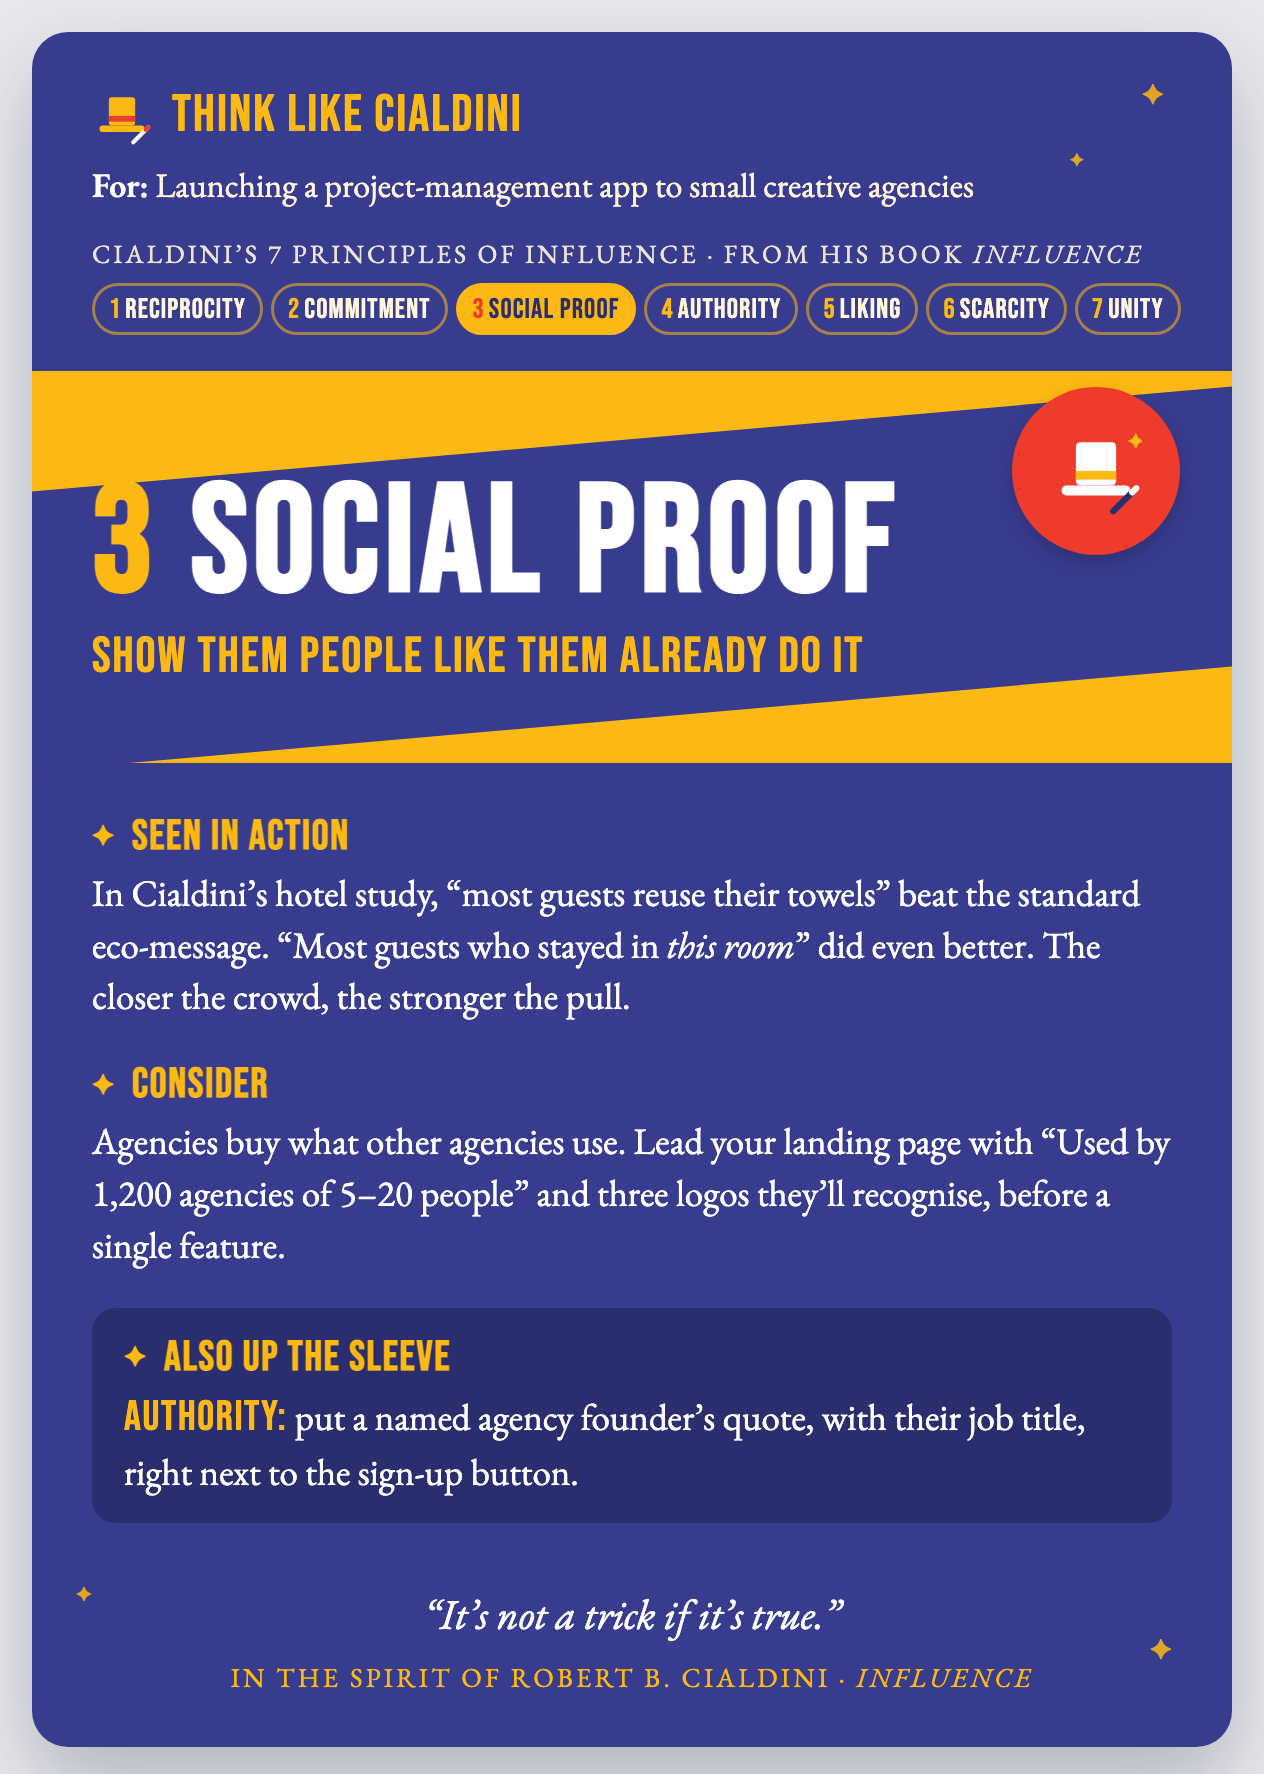
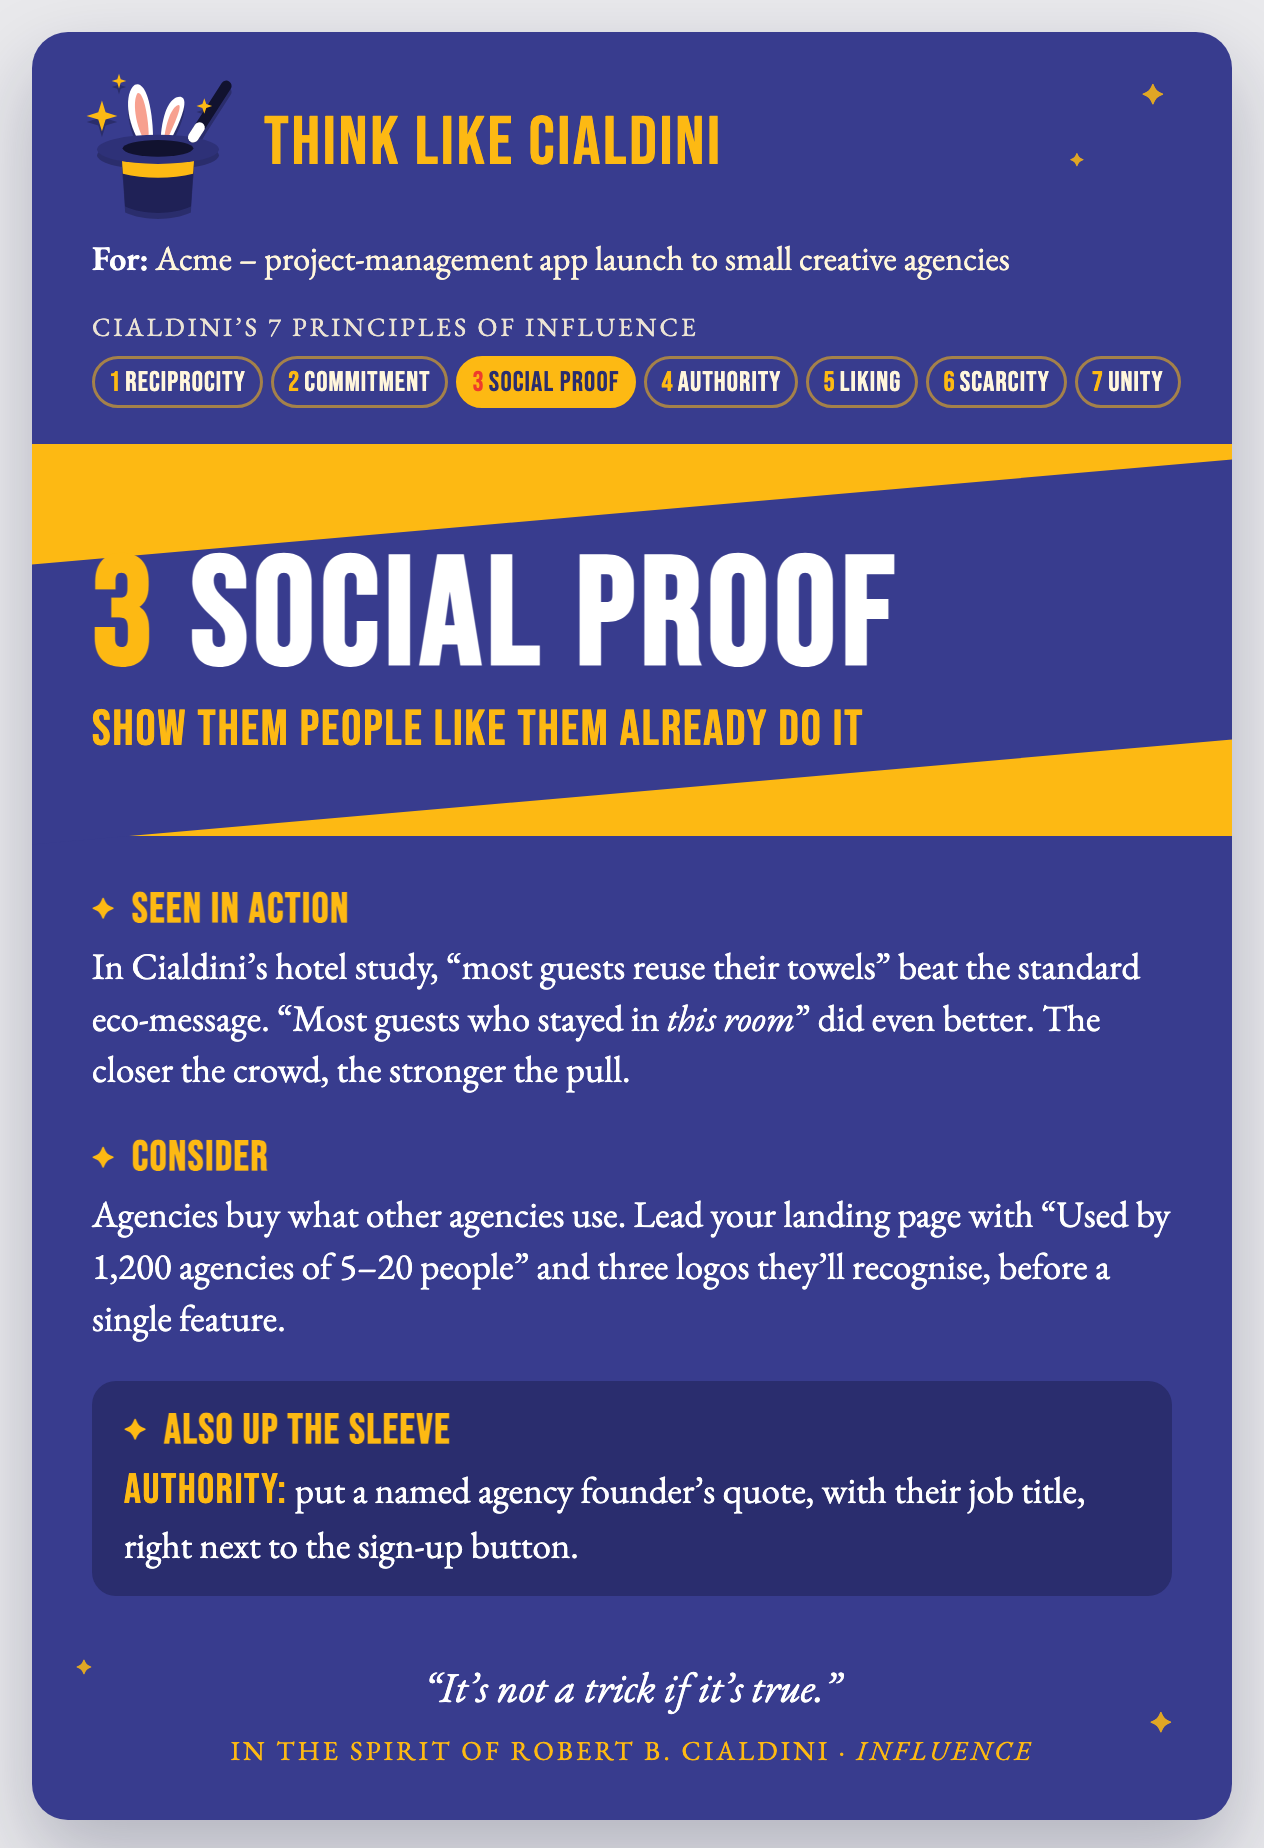
New magician's hat, cleaner card header, "Company – project" line
- Original flat hat, rabbit and wand icon (assets/magic-hat.svg), shown
  bigger in the card header and the how-to image.
- Removed the red badge next to the principle name.
- "For:" line now uses "Company – project"; strip label shortened to
  "Cialdini's 7 principles of influence".

diff --git a/docs/example-card.html b/docs/example-card.html
@@ -37,8 +37,8 @@
   .spark { position: absolute; color: var(--yellow); opacity: .85; font-size: 14px; pointer-events: none; }
 
   .top { padding: 26px 30px 18px; position: relative; }
-  .eyebrow { display: flex; align-items: center; gap: 10px; color: var(--yellow); font-size: 26px; }
-  .eyebrow svg { width: 30px; height: 30px; flex: none; }
+  .eyebrow { display: flex; align-items: center; gap: 14px; color: var(--yellow); font-size: 34px; line-height: 1; }
+  .eyebrow svg { width: 78px; height: 78px; flex: none; margin: -10px 0 -8px -6px; filter: drop-shadow(0 3px 0 rgba(17,18,47,.35)); }
   /* the 7 principles strip: the chosen one lights up (set data-active on .card) */
   .seven { margin-top: 14px; }
   .seven-label { font-size: 13px; letter-spacing: .12em; text-transform: uppercase; color: var(--cream); opacity: .9; }
@@ -54,7 +54,7 @@
   .card[data-active="3"] .chip:nth-child(3) b, .card[data-active="4"] .chip:nth-child(4) b,
   .card[data-active="5"] .chip:nth-child(5) b, .card[data-active="6"] .chip:nth-child(6) b,
   .card[data-active="7"] .chip:nth-child(7) b { color: var(--red); }
-  .brief { margin-top: 8px; font-size: 17px; line-height: 1.35; color: var(--cream); }
+  .brief { margin-top: 16px; font-size: 17px; line-height: 1.35; color: var(--cream); }
   .brief b { font-weight: 600; color: var(--white); }
 
   .band { position: relative; background: var(--yellow); padding: 34px 0 22px; }
@@ -68,15 +68,6 @@
   .principle { font-size: 76px; line-height: .92; color: var(--white); display: flex; align-items: baseline; gap: 16px; }
   .principle .num { color: var(--yellow); }
   .lever { font-size: 25px; color: var(--yellow); margin-top: 6px; }
-  .badge {
-    position: absolute; top: 8px; right: 26px; z-index: 2;
-    width: 84px; height: 84px; border-radius: 50%;
-    background: var(--red); color: var(--white);
-    display: flex; flex-direction: column; align-items: center; justify-content: center;
-    box-shadow: 0 4px 10px rgba(0,0,0,.18);
-  }
-  .badge small { font-size: 15px; line-height: 1; }
-  .badge strong { font-size: 40px; line-height: .9; }
 
   .body { padding: 24px 30px 8px; }
   .section { margin-bottom: 18px; }
@@ -102,18 +93,26 @@
   <header class="top">
     <div class="eyebrow display">
       <!-- top hat and wand -->
-      <svg viewBox="0 0 32 32" aria-hidden="true">
-        <rect x="9" y="6" width="14" height="15" rx="1.5" fill="#FDB913"/>
-        <rect x="9" y="16" width="14" height="3" fill="#EE3B2B"/>
-        <rect x="4" y="21" width="24" height="3.5" rx="1.75" fill="#FDB913"/>
-        <line x1="22" y1="30" x2="30" y2="22" stroke="#FFFFFF" stroke-width="2.2" stroke-linecap="round"/>
-        <line x1="28.6" y1="23.4" x2="30" y2="22" stroke="#EE3B2B" stroke-width="2.2" stroke-linecap="round"/>
-      </svg>
+      <svg width="62" height="62" viewBox="0 0 64 64" aria-hidden="true">
+  <path d="M25 33 C19 24 18 12 22.5 8.5 C27 6.5 30 18 30 32 Z" fill="#FFFFFF"/>
+  <path d="M25.4 29.5 C22.2 22.5 21.8 14.5 23.6 12 C25.6 11.2 27.8 19 28.2 29 Z" fill="#F7A08F"/>
+  <path d="M33 32 C33.5 21 36.5 13 41.5 13.5 C45 14.5 41 24 36.5 32.5 Z" fill="#FFFFFF"/>
+  <path d="M34.6 30 C35.5 23 38 17 40.6 16.8 C41.8 17.6 39 24 36 30.5 Z" fill="#F7A08F"/>
+  <path d="M17 36 L18.5 58.5 C26 62 38 62 45.5 58.5 L47 36 Z" fill="#1F2156"/>
+  <path d="M17.2 39.5 L46.8 39.5 L46.4 45 C38 47.2 26 47.2 17.6 45 Z" fill="#FDB913"/>
+  <ellipse cx="32" cy="35" rx="25" ry="6" fill="#2E3178"/>
+  <ellipse cx="32" cy="34.6" rx="14.5" ry="3.4" fill="#11122F"/>
+  <line x1="46.5" y1="30" x2="60" y2="9" stroke="#11122F" stroke-width="4.4" stroke-linecap="round"/>
+  <line x1="46.5" y1="30" x2="49" y2="26.1" stroke="#FFFFFF" stroke-width="4.4" stroke-linecap="round"/>
+  <path d="M9 15 L10.5 19.8 L15.3 21.3 L10.5 22.8 L9 27.6 L7.5 22.8 L2.7 21.3 L7.5 19.8 Z" fill="#FDB913"/>
+  <path d="M51 14 L51.8 16.4 L54.2 17.2 L51.8 18 L51 20.4 L50.2 18 L47.8 17.2 L50.2 16.4 Z" fill="#FDB913"/>
+  <path d="M16 4 L16.7 6.3 L19 7 L16.7 7.7 L16 10 L15.3 7.7 L13 7 L15.3 6.3 Z" fill="#FDB913"/>
+</svg>
       Think like Cialdini
     </div>
-    <p class="brief"><b>For:</b> Launching a project-management app to small creative agencies</p>
+    <p class="brief"><b>For:</b> Acme – project-management app launch to small creative agencies</p>
     <div class="seven">
-      <p class="seven-label">Cialdini’s 7 principles of influence · from his book <i>Influence</i></p>
+      <p class="seven-label">Cialdini’s 7 principles of influence</p>
       <div class="chips">
         <span class="chip"><b>1</b>Reciprocity</span>
         <span class="chip"><b>2</b>Commitment</span>
@@ -127,16 +126,6 @@
   </header>
 
   <section class="band">
-    <div class="badge" aria-hidden="true">
-      <svg viewBox="0 0 32 32" width="46" height="46">
-        <rect x="9" y="6" width="14" height="15" rx="1.5" fill="#FFFFFF"/>
-        <rect x="9" y="16" width="14" height="3" fill="#FDB913"/>
-        <rect x="4" y="21" width="24" height="3.5" rx="1.75" fill="#FFFFFF"/>
-        <line x1="22" y1="30" x2="30" y2="22" stroke="#2A2D6E" stroke-width="2.2" stroke-linecap="round"/>
-        <line x1="28.6" y1="23.4" x2="30" y2="22" stroke="#FFFFFF" stroke-width="2.2" stroke-linecap="round"/>
-        <text x="27" y="8" font-size="7" fill="#FDB913">✦</text>
-      </svg>
-    </div>
     <div class="stripe"><div class="stripe-inner">
       <h1 class="principle display"><span class="num">3</span><span>Social proof</span></h1>
       <p class="lever display">Show them people like them already do it</p>

diff --git a/cialdini-7-principles/assets/card-template.html b/cialdini-7-principles/assets/card-template.html
@@ -44,8 +44,8 @@
   .spark { position: absolute; color: var(--yellow); opacity: .85; font-size: 14px; pointer-events: none; }
 
   .top { padding: 26px 30px 18px; position: relative; }
-  .eyebrow { display: flex; align-items: center; gap: 10px; color: var(--yellow); font-size: 26px; }
-  .eyebrow svg { width: 30px; height: 30px; flex: none; }
+  .eyebrow { display: flex; align-items: center; gap: 14px; color: var(--yellow); font-size: 34px; line-height: 1; }
+  .eyebrow svg { width: 78px; height: 78px; flex: none; margin: -10px 0 -8px -6px; filter: drop-shadow(0 3px 0 rgba(17,18,47,.35)); }
   /* the 7 principles strip: the chosen one lights up (set data-active on .card) */
   .seven { margin-top: 14px; }
   .seven-label { font-size: 13px; letter-spacing: .12em; text-transform: uppercase; color: var(--cream); opacity: .9; }
@@ -61,7 +61,7 @@
   .card[data-active="3"] .chip:nth-child(3) b, .card[data-active="4"] .chip:nth-child(4) b,
   .card[data-active="5"] .chip:nth-child(5) b, .card[data-active="6"] .chip:nth-child(6) b,
   .card[data-active="7"] .chip:nth-child(7) b { color: var(--red); }
-  .brief { margin-top: 8px; font-size: 17px; line-height: 1.35; color: var(--cream); }
+  .brief { margin-top: 16px; font-size: 17px; line-height: 1.35; color: var(--cream); }
   .brief b { font-weight: 600; color: var(--white); }
 
   .band { position: relative; background: var(--yellow); padding: 34px 0 22px; }
@@ -75,15 +75,6 @@
   .principle { font-size: 76px; line-height: .92; color: var(--white); display: flex; align-items: baseline; gap: 16px; }
   .principle .num { color: var(--yellow); }
   .lever { font-size: 25px; color: var(--yellow); margin-top: 6px; }
-  .badge {
-    position: absolute; top: 8px; right: 26px; z-index: 2;
-    width: 84px; height: 84px; border-radius: 50%;
-    background: var(--red); color: var(--white);
-    display: flex; flex-direction: column; align-items: center; justify-content: center;
-    box-shadow: 0 4px 10px rgba(0,0,0,.18);
-  }
-  .badge small { font-size: 15px; line-height: 1; }
-  .badge strong { font-size: 40px; line-height: .9; }
 
   .body { padding: 24px 30px 8px; }
   .section { margin-bottom: 18px; }
@@ -109,18 +100,26 @@
   <header class="top">
     <div class="eyebrow display">
       <!-- top hat and wand -->
-      <svg viewBox="0 0 32 32" aria-hidden="true">
-        <rect x="9" y="6" width="14" height="15" rx="1.5" fill="#FDB913"/>
-        <rect x="9" y="16" width="14" height="3" fill="#EE3B2B"/>
-        <rect x="4" y="21" width="24" height="3.5" rx="1.75" fill="#FDB913"/>
-        <line x1="22" y1="30" x2="30" y2="22" stroke="#FFFFFF" stroke-width="2.2" stroke-linecap="round"/>
-        <line x1="28.6" y1="23.4" x2="30" y2="22" stroke="#EE3B2B" stroke-width="2.2" stroke-linecap="round"/>
-      </svg>
+      <svg width="62" height="62" viewBox="0 0 64 64" aria-hidden="true">
+  <path d="M25 33 C19 24 18 12 22.5 8.5 C27 6.5 30 18 30 32 Z" fill="#FFFFFF"/>
+  <path d="M25.4 29.5 C22.2 22.5 21.8 14.5 23.6 12 C25.6 11.2 27.8 19 28.2 29 Z" fill="#F7A08F"/>
+  <path d="M33 32 C33.5 21 36.5 13 41.5 13.5 C45 14.5 41 24 36.5 32.5 Z" fill="#FFFFFF"/>
+  <path d="M34.6 30 C35.5 23 38 17 40.6 16.8 C41.8 17.6 39 24 36 30.5 Z" fill="#F7A08F"/>
+  <path d="M17 36 L18.5 58.5 C26 62 38 62 45.5 58.5 L47 36 Z" fill="#1F2156"/>
+  <path d="M17.2 39.5 L46.8 39.5 L46.4 45 C38 47.2 26 47.2 17.6 45 Z" fill="#FDB913"/>
+  <ellipse cx="32" cy="35" rx="25" ry="6" fill="#2E3178"/>
+  <ellipse cx="32" cy="34.6" rx="14.5" ry="3.4" fill="#11122F"/>
+  <line x1="46.5" y1="30" x2="60" y2="9" stroke="#11122F" stroke-width="4.4" stroke-linecap="round"/>
+  <line x1="46.5" y1="30" x2="49" y2="26.1" stroke="#FFFFFF" stroke-width="4.4" stroke-linecap="round"/>
+  <path d="M9 15 L10.5 19.8 L15.3 21.3 L10.5 22.8 L9 27.6 L7.5 22.8 L2.7 21.3 L7.5 19.8 Z" fill="#FDB913"/>
+  <path d="M51 14 L51.8 16.4 L54.2 17.2 L51.8 18 L51 20.4 L50.2 18 L47.8 17.2 L50.2 16.4 Z" fill="#FDB913"/>
+  <path d="M16 4 L16.7 6.3 L19 7 L16.7 7.7 L16 10 L15.3 7.7 L13 7 L15.3 6.3 Z" fill="#FDB913"/>
+</svg>
       Think like Cialdini
     </div>
     <p class="brief"><b>For:</b> {{CONTEXT}}</p>
     <div class="seven">
-      <p class="seven-label">Cialdini’s 7 principles of influence · from his book <i>Influence</i></p>
+      <p class="seven-label">Cialdini’s 7 principles of influence</p>
       <div class="chips">
         <span class="chip"><b>1</b>Reciprocity</span>
         <span class="chip"><b>2</b>Commitment</span>
@@ -134,16 +133,6 @@
   </header>
 
   <section class="band">
-    <div class="badge" aria-hidden="true">
-      <svg viewBox="0 0 32 32" width="46" height="46">
-        <rect x="9" y="6" width="14" height="15" rx="1.5" fill="#FFFFFF"/>
-        <rect x="9" y="16" width="14" height="3" fill="#FDB913"/>
-        <rect x="4" y="21" width="24" height="3.5" rx="1.75" fill="#FFFFFF"/>
-        <line x1="22" y1="30" x2="30" y2="22" stroke="#2A2D6E" stroke-width="2.2" stroke-linecap="round"/>
-        <line x1="28.6" y1="23.4" x2="30" y2="22" stroke="#FFFFFF" stroke-width="2.2" stroke-linecap="round"/>
-        <text x="27" y="8" font-size="7" fill="#FDB913">✦</text>
-      </svg>
-    </div>
     <div class="stripe"><div class="stripe-inner">
       <h1 class="principle display"><span class="num">{{NUMBER}}</span><span>{{PRINCIPLE}}</span></h1>
       <p class="lever display">{{LEVER}}</p>

diff --git a/docs/how-to-use.html b/docs/how-to-use.html
@@ -15,7 +15,7 @@
   .band { position:absolute; left:-40px; right:-40px; top:178px; height:290px; background:var(--yellow); transform:skewY(-4deg); }
   .spark { position:absolute; color:var(--yellow); font-size:16px; }
   header { position:relative; display:flex; align-items:center; gap:14px; }
-  header svg { width:46px; height:46px; }
+  header svg { width:58px; height:58px; }
   h1 { font-size:58px; line-height:1; }
   h1 span { color:var(--yellow); }
   .sub { position:relative; margin:6px 0 30px 60px; font-size:21px; color:var(--cream); }
@@ -45,13 +45,21 @@
   <span class="spark" style="bottom:40px;left:30px;font-size:11px">✦</span>
 
   <header>
-    <svg viewBox="0 0 32 32" aria-hidden="true">
-      <rect x="9" y="6" width="14" height="15" rx="1.5" fill="#FDB913"/>
-      <rect x="9" y="16" width="14" height="3" fill="#EE3B2B"/>
-      <rect x="4" y="21" width="24" height="3.5" rx="1.75" fill="#FDB913"/>
-      <line x1="22" y1="30" x2="30" y2="22" stroke="#FFFFFF" stroke-width="2.2" stroke-linecap="round"/>
-      <line x1="28.6" y1="23.4" x2="30" y2="22" stroke="#EE3B2B" stroke-width="2.2" stroke-linecap="round"/>
-    </svg>
+    <svg width="62" height="62" viewBox="0 0 64 64" aria-hidden="true">
+  <path d="M25 33 C19 24 18 12 22.5 8.5 C27 6.5 30 18 30 32 Z" fill="#FFFFFF"/>
+  <path d="M25.4 29.5 C22.2 22.5 21.8 14.5 23.6 12 C25.6 11.2 27.8 19 28.2 29 Z" fill="#F7A08F"/>
+  <path d="M33 32 C33.5 21 36.5 13 41.5 13.5 C45 14.5 41 24 36.5 32.5 Z" fill="#FFFFFF"/>
+  <path d="M34.6 30 C35.5 23 38 17 40.6 16.8 C41.8 17.6 39 24 36 30.5 Z" fill="#F7A08F"/>
+  <path d="M17 36 L18.5 58.5 C26 62 38 62 45.5 58.5 L47 36 Z" fill="#1F2156"/>
+  <path d="M17.2 39.5 L46.8 39.5 L46.4 45 C38 47.2 26 47.2 17.6 45 Z" fill="#FDB913"/>
+  <ellipse cx="32" cy="35" rx="25" ry="6" fill="#2E3178"/>
+  <ellipse cx="32" cy="34.6" rx="14.5" ry="3.4" fill="#11122F"/>
+  <line x1="46.5" y1="30" x2="60" y2="9" stroke="#11122F" stroke-width="4.4" stroke-linecap="round"/>
+  <line x1="46.5" y1="30" x2="49" y2="26.1" stroke="#FFFFFF" stroke-width="4.4" stroke-linecap="round"/>
+  <path d="M9 15 L10.5 19.8 L15.3 21.3 L10.5 22.8 L9 27.6 L7.5 22.8 L2.7 21.3 L7.5 19.8 Z" fill="#FDB913"/>
+  <path d="M51 14 L51.8 16.4 L54.2 17.2 L51.8 18 L51 20.4 L50.2 18 L47.8 17.2 L50.2 16.4 Z" fill="#FDB913"/>
+  <path d="M16 4 L16.7 6.3 L19 7 L16.7 7.7 L16 10 L15.3 7.7 L13 7 L15.3 6.3 Z" fill="#FDB913"/>
+</svg>
     <h1 class="display">How to <span>think like Cialdini</span></h1>
   </header>
   <p class="sub">A free AI skill built on Robert Cialdini’s 7 principles of influence. Three steps, one card.</p>

diff --git a/cialdini-7-principles/SKILL.md b/cialdini-7-principles/SKILL.md
@@ -77,7 +77,7 @@ The signature move. The user says "think like Cialdini" and gives you some conte
 
    | Field | What goes in it | Length |
    |---|---|---|
-   | `CONTEXT` | Their situation, in their words | Max 12 words |
+   | `CONTEXT` | **Company name – the project or campaign**, e.g. "Acme – spring sale to lapsed customers". If they haven't named the company, use their product or "Your brand" | Max 12 words |
    | `NUMBER` | The principle's number, 1–7, from the table above | 1 digit |
    | `PRINCIPLE` | The principle's name | 1–2 words |
    | `LEVER` | The lever, as an instruction | Max 8 words |
@@ -101,8 +101,8 @@ The signature move. The user says "think like Cialdini" and gives you some conte
 
 ```
 🎩 THINK LIKE CIALDINI
-For: <CONTEXT>
-Cialdini's 7 principles: 1 Reciprocity · 2 Commitment · 3 Social proof · 4 Authority · 5 Liking · 6 Scarcity · 7 Unity
+For: <Company> – <project>
+Cialdini's 7 principles of influence: 1 Reciprocity · 2 Commitment · 3 Social proof · 4 Authority · 5 Liking · 6 Scarcity · 7 Unity
 
 ━━ <NUMBER>  <PRINCIPLE IN CAPITALS> ━━
 <LEVER>

diff --git a/README.md b/README.md
@@ -50,6 +50,7 @@ cialdini-7-principles/
 │                            and the story bank
 ├── assets/
 │   ├── card-template.html   ← the "Think like Cialdini" card design
+│   ├── magic-hat.svg        ← the card's hat, rabbit and wand icon
 │   ├── cialdini-7-principles.svg
 │   └── influence-book-cover.jpg
 ├── references/           ← one file per principle: stories, evidence, famous
